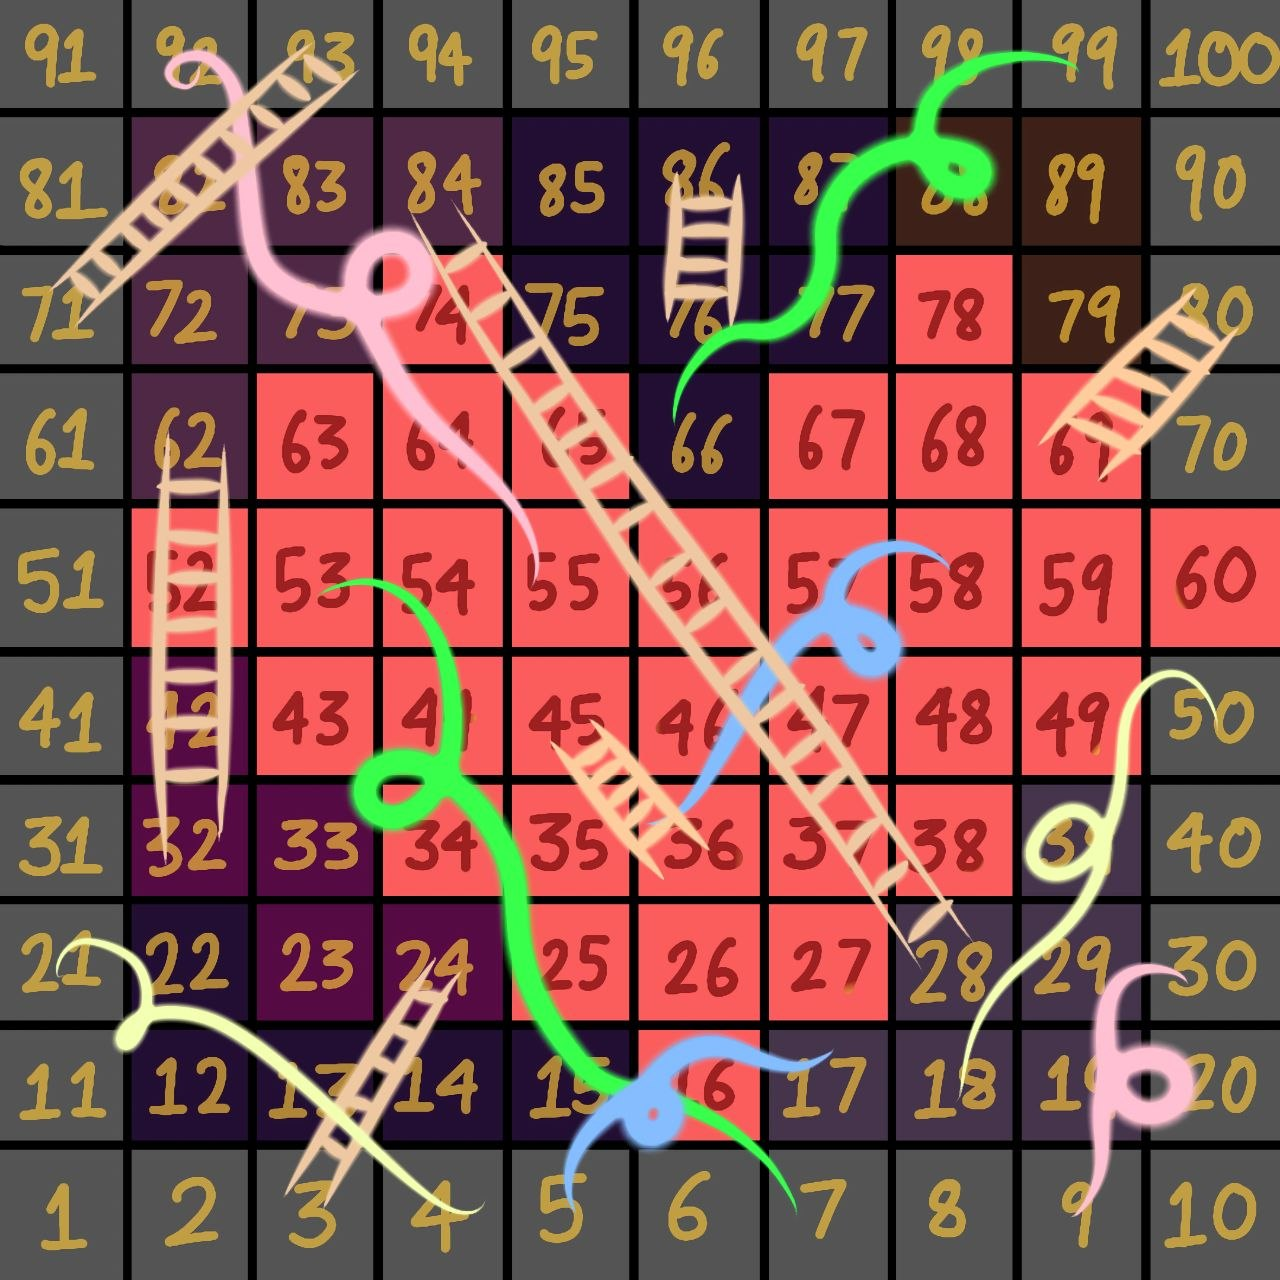
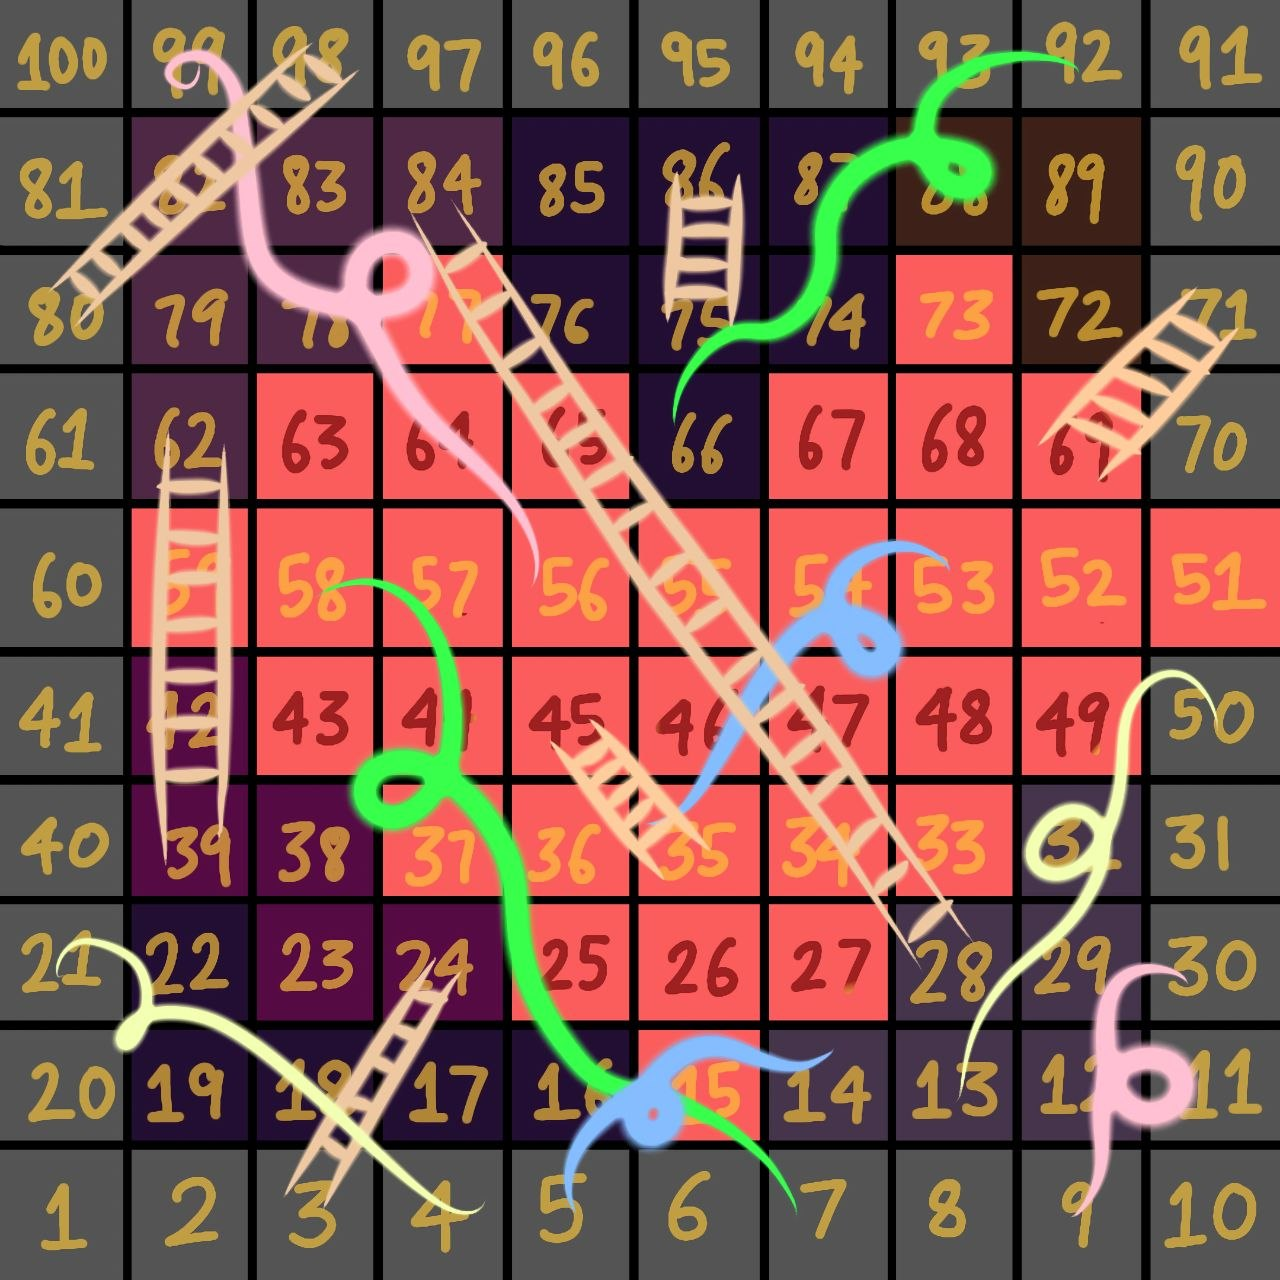
updated changes

diff --git a/game_plan/src/pages/snakes_and_ladders.tsx b/game_plan/src/pages/snakes_and_ladders.tsx
@@ -7,26 +7,27 @@ const COLS = 10;
 const ROWS = 10;
 
 // Snakes: head → tail (player slides DOWN)
+
 const SNAKES: Record<number, number> = {
-  92: 55,
-  99: 66,
-  50: 18,
-  58: 36,
-  53: 7,
+  99: 56,
+  92: 66,
+  58: 7,
+  53: 36,
+  50: 13,
   30: 9,
   21: 4,
-  17: 5,
+  14: 5,
 };
 
 // Ladders: bottom → top (player climbs UP)
 const LADDERS: Record<number, number> = {
   3: 24,
   28: 84,
-  36: 45,
-  32: 62,
-  69: 80,
-  76: 86,
-  71: 93,
+  35: 45,
+  39: 62,
+  69: 71,
+  75: 86,
+  80: 98,
 };
 
 // ─── Types ───────────────────────────────────────────────────────────
